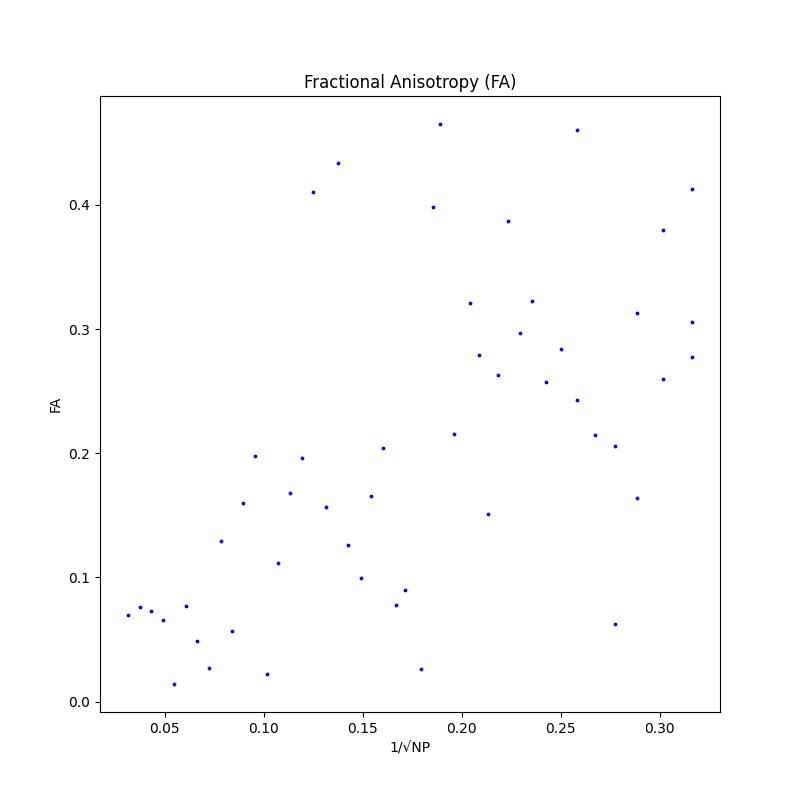
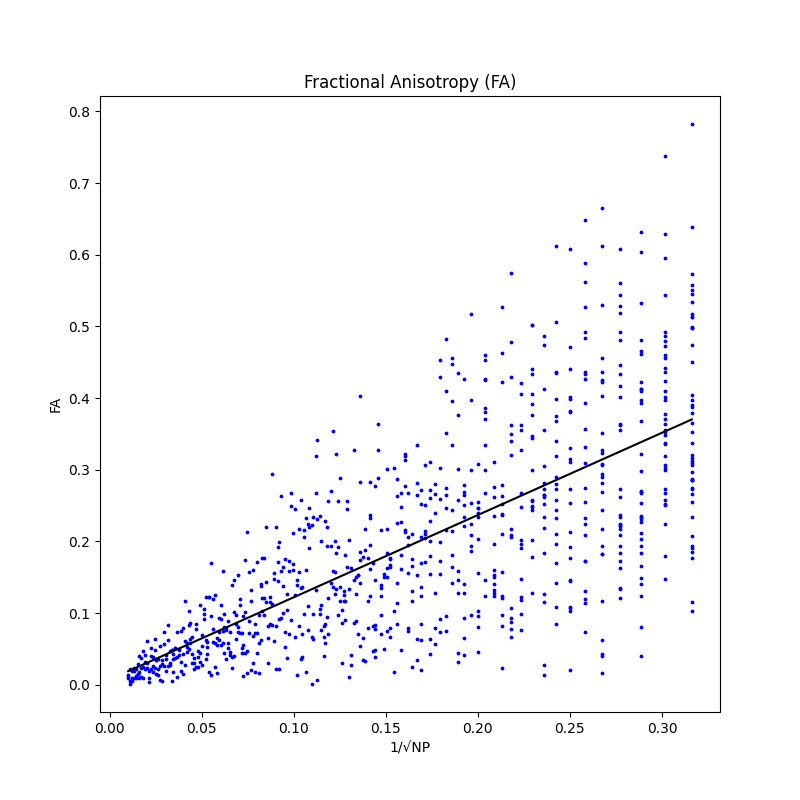
Still working on r graph

diff --git a/src/plotter.py b/src/plotter.py
@@ -7,8 +7,6 @@ import matplotlib.pyplot as plt
 from particle import Particle
 from sim_math import SimMath
 
-import click
-
 class Plotter:
     @staticmethod
     def uniform_sampling(plotting_format):
@@ -35,7 +33,7 @@ class Plotter:
                 zs.append(z)
 
         ax.set_title('Uniform Sampling Projected On Surface Of Sphere')
-        ax.scatter(xs, ys, zs, color='blue', s=1, alpha=0.5)
+        ax.scatter(xs, ys, zs, color='blue', s=1)
         ax.set_xlabel('X')
         ax.set_ylabel('Y')
         ax.set_zlabel('Z')
@@ -78,7 +76,7 @@ class Plotter:
         # THETAS
         ax = axs[0][0]
         theta_theory = np.linspace(0, np.pi, len(thetas))
-        ax.hist(thetas, bins=30, density=True, alpha=0.6, color='red')
+        ax.hist(thetas, bins=30, density=True, color='red', alpha=0.7)
         ax.plot(theta_theory, 0.5 * np.sin(theta_theory), color='black')
         ax.set_title('Observed θ vs. Theoretical θ')
         ax.set_xlabel('θ (Spherical Coord, [0, π]) (bins=30)')
@@ -87,29 +85,17 @@ class Plotter:
         # PHIS
         ax = axs[0][1]
         phi_theory = np.linspace(0, 2 * np.pi, len(phis))
-        ax.hist(phis, bins=30, density=True, color='green')
+        ax.hist(phis, bins=30, density=True, color='green', alpha=0.7)
         ax.plot(phi_theory, [1 / (2 * np.pi)] * len(phis), color='black')
         ax.set_title('Observed φ vs. Theoretical φ')
         ax.set_xlabel('φ (Spherical Coord, [0, 2π]) (bins=30)')
         ax.set_ylabel('Counts')
 
-        # fig = plt.figure()
-        #fig.set_size_inches(8, 8)
-        #plt.title('Diffusion Tensor Eigen Values')
-        #plt.xlabel('Particle Count')
-        #plt.ylabel('Eigen Values')
-        #for tensor in eigen_diffusion_tensors:
-        #    plt.scatter([] * len(eigen_diffusion_tensor), eigen_diffusion_tensor, c='blue')
-
-        # plt.savefig(f'results/graphs/eigens.png')
-        # plt.show()
-
         # R
         ax = axs[1][0]
         ax.ticklabel_format(style='sci', axis='x', scilimits=(0,0))
         ax.ticklabel_format(style='sci', axis='y', scilimits=(0,0))
-        ax.hist(rs, bins=30, density=True, color='yellow')
-        # ax.plot(math.exp(-1/(4*D0*NT*dt)), color='black')
+        ax.hist(rs, bins=30, density=True, color='blue', alpha=0.7)
         ax.set_title('Observed r vs. Theoretical r (bins=30)')
         ax.set_xlabel('r')
         ax.set_ylabel('Counts')
@@ -127,10 +113,22 @@ class Plotter:
         plt.title('Fractional Anisotropy (FA)')
         plt.xlabel('1/√NP')
         plt.ylabel('FA')
+
+        xs = np.array([])
+        ys = np.array([])
         for key in keys:
             for data in plotting_format[key]:
                 index, particles, diffusion_tensor, eigen_diffusion_tensor, fa = data
-                plt.scatter(1/math.sqrt(len(particles)), fa, s=3, c='blue')
+                x = 1/math.sqrt(len(particles))
+                y = fa
+
+                xs = np.append(xs, x)
+                ys = np.append(ys, y)
+
+        plt.scatter(xs, ys, s=3, c='blue')
+        
+        a, b = np.polyfit(xs, ys, 1)
+        plt.plot(xs, a * xs + b, c='black')
 
         plt.savefig(f'results/graphs/fa.png')
         plt.show()
@@ -178,6 +176,6 @@ class Plotter:
                     ys.append(y)
                     zs.append(z)
 
-                ax.scatter(xs, ys, zs, s=1, alpha=0.5, c='blue')
+                ax.scatter(xs, ys, zs, s=1, c='blue')
                 plt.savefig(f'results/graphs/diffusion_{index}_{key}.png')
                 plt.show()

diff --git a/src/main.py b/src/main.py
@@ -1,5 +1,6 @@
-# TODO(justin): rework how we gather info for repeated tests...
+# TODO(justin): rework how we gather info for repeated tests... all test data needs to be placed in toml on simulation completion
 # TODO(justin): create individual graphs for runs then one graph with all data on it....
+# TODO(justin): make everything that touches math be numpy please :D
 
 import time
 import concurrent.futures
@@ -90,7 +91,7 @@ if __name__ == '__main__':
     D0 = 2.3 * 10**(-3) # diffusion coefficient
     dt = 5 * 10**(-9)   # time step
 
-    NP = SimMath.sqrtspace(10, 1000, 50)
+    NP = SimMath.sqrtspace(10, 10000, 300)
 
     # TODO(justin): simulation related functions should be in their own module...
     simulation = simulate_on_multiple_cores(NT, NP, D0, dt, repeats=3)
@@ -101,7 +102,7 @@ if __name__ == '__main__':
     plotting_format = simulation_as_plotting_format(simulation)
 
     plt.style.use('seaborn-v0_8-muted')
-    Plotter.uniform_sampling(plotting_format)
+    # Plotter.uniform_sampling(plotting_format)
     Plotter.verify_any_bias(plotting_format, D0, NT, dt)
     Plotter.fa(plotting_format)
     # Plotter.eigens(plotting_format)
